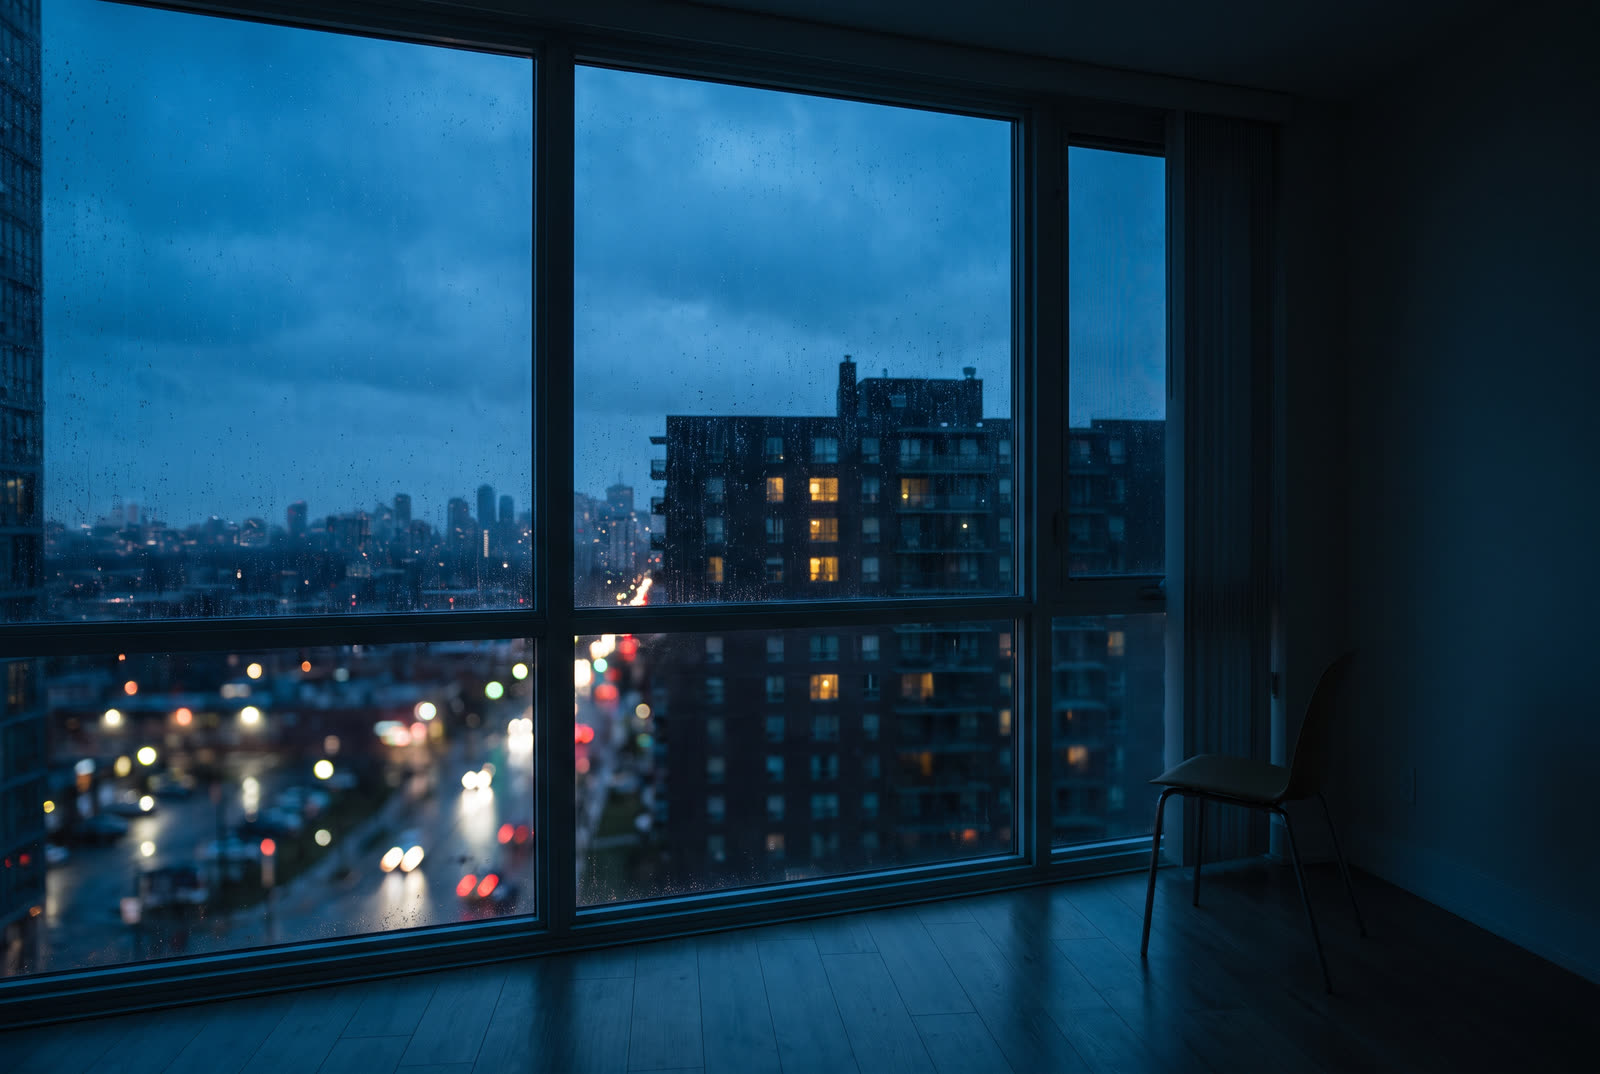
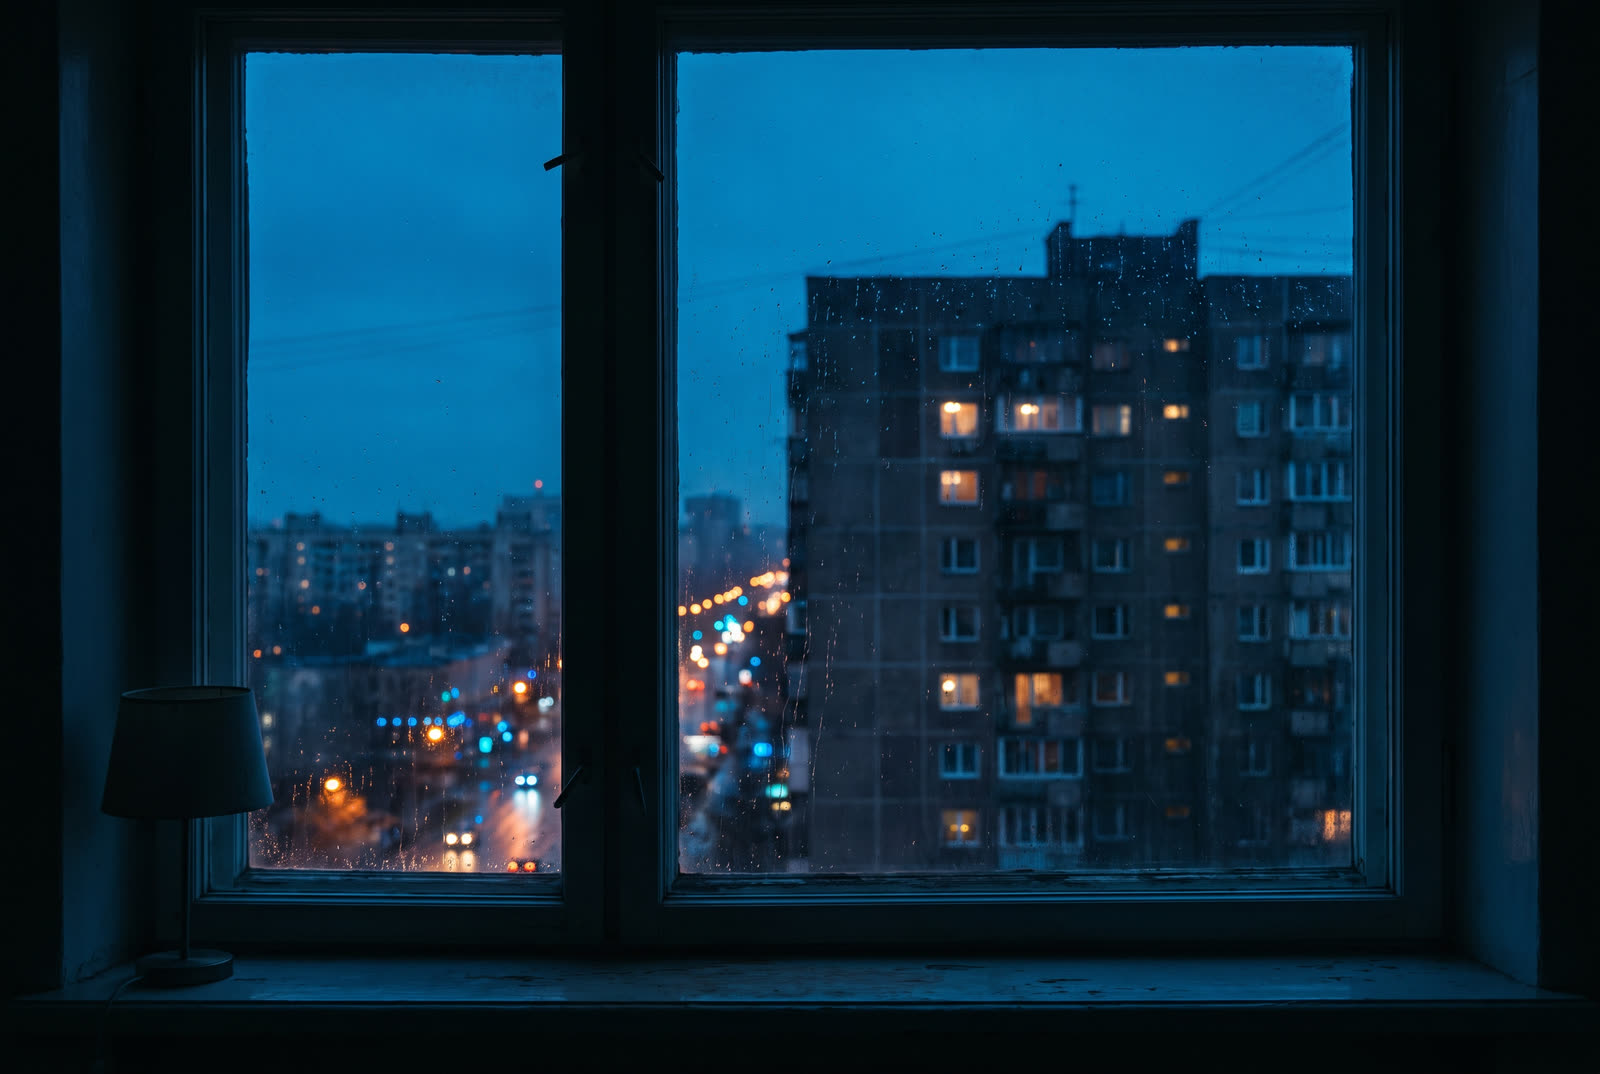
Спуск: кадры без лиц — композиции вместо портретов

diff --git a/spusk.html b/spusk.html
@@ -663,11 +663,9 @@ section[id]{scroll-margin-top:96px}
         <p>Она открыла переписку и читала не слова, а смысл, стоящий за ними...</p>
 
         <figure class="sf">
-          <img src="assets/img/psibo_pavel_smile.jpg" alt="· в кресле у окна. телефон экраном вверх" loading="lazy">
-          <figcaption>01 · спокойная и изящная</figcaption>
-        </figure>
-
-        <p>Вот Кукла перевела деньги и сразу спросила:</p>
+          <img src="assets/img/story/spusk_01_kreslo.jpg" alt="· в кресле у окна. телефон экраном вверх" loading="lazy">
+          <figcaption>01 · в кресле у окна. телефон экраном вверх</figcaption>
+        </figure><p>Вот Кукла перевела деньги и сразу спросила:</p>
         <p class="dlg">«Так достаточно? Я закрыла?»</p>
 
         <p>Хозяйка чуть улыбнулась увидев, что мне нужен не ответ «закрыла», а подтвержденье, что еще в долгу. Можно сколько угодно говорить «хватит» - он всё равно будет ждать следующего «пока нет». Это был кожный вектор в определенном состоянии в Кукле. С желанием Долга, который нельзя погасить.</p>
@@ -675,11 +673,9 @@ section[id]{scroll-margin-top:96px}
         <p>Чуть ниже Кукла писала длинно, почти умоляюще. Ей нужна реализация расставленья мыслей по полочкам и ящичкам, чем и занимается она, расписывая детали, расставляя по абзацам...</p>
 
         <figure class="sf">
-          <img src="assets/img/psibo_pavel_flowers.jpg" alt="· читала не слова, а смысл, стоящий за ними" loading="lazy">
+          <img src="assets/img/story/spusk_03_telefon.jpg" alt="· читала не слова, а смысл, стоящий за ними" loading="lazy">
           <figcaption>02 · читала не слова, а смысл, стоящий за ними</figcaption>
-        </figure>
-
-        <p>Ей в коже хотелось повелений, как на плацу от кожного командира, как пониманье о том, что можно, через закон. Протоколы, баллы, штрафы. Каждое нарушение - штраф. Каждый штраф - перевод. Каждый перевод - возбуждение.</p>
+        </figure><p>Ей в коже хотелось повелений, как на плацу от кожного командира, как пониманье о том, что можно, через закон. Протоколы, баллы, штрафы. Каждое нарушение - штраф. Каждый штраф - перевод. Каждый перевод - возбуждение.</p>
 
         <p>Дальше шли сообщения, полные страха:</p>
         <p class="dlg">«Вы ещё здесь?», «Вы не расскажете?»</p>
@@ -687,11 +683,9 @@ section[id]{scroll-margin-top:96px}
         <p>Зрительный вектор. Кукла боялась разоблачения. Значит, угрожать нужно было именно этим. «Я знаю, где ты живёшь, с кем спишь, кому звонишь. И могу рассказать». Страх сильнее Куклы и можно просто иногда напоминать, что информация есть и может быть использована против нее.</p>
 
         <figure class="sf">
-          <img src="assets/img/story/son_05_perevod.jpg" alt="· «я знаю, где ты живёшь, с кем спишь, кому звонишь»" loading="lazy">
-          <figcaption>03 · «я знаю, где ты живёшь, с кем спишь, кому звонишь»</figcaption>
-        </figure>
-
-        <p>И ещё одна фраза, почти незаметная, летала в голове вопросом:</p>
+          <img src="assets/img/story/spusk_04_kniga.jpg" alt="· счёт, долги, протокол. писала коротко, для себя" loading="lazy">
+          <figcaption>03 · счёт, долги, протокол. писала коротко, для себя</figcaption>
+        </figure><p>И ещё одна фраза, почти незаметная, летала в голове вопросом:</p>
         <p class="dlg">«Что мне сделать для Вас?»</p>
 
         <p>Ей нужно было работать. Не для себя - для Хозяйки. Задания. Много. Разных. И она выдумывала заданья. Те, что действительно принесут пользу и радость Хозяйке. И каждое - с привкусом дойки. Не просто «сделай», а «сделай, и потом переведёшь. И будешь возбуждаться от того, что перевела».</p>
@@ -705,22 +699,18 @@ section[id]{scroll-margin-top:96px}
         </div>
 
         <figure class="sf">
-          <img src="assets/img/story/son_01_hozyaika.jpg" alt="· счёт, долги, протокол. писала коротко, для себя" loading="lazy">
-          <figcaption>04 · счёт, долги, протокол. писала коротко, для себя</figcaption>
-        </figure>
-
-        <p>Она перечитала и кивнула. Кукла думала, что хочет «жёсткости». На самом деле ей нужно было одно: возбуждаться от денег, уходящих на счёт Хозяйки. Только от этого. Чтобы обычный секс с девушкой постепенно стал пресным. Чтобы тело перестало откликаться на прикосновения и начало откликаться на цифры перевода и на фразу «задание выполнено».</p>
+          <img src="assets/img/story/spusk_05_gorod.jpg" alt="· знаю адрес. знаю график. если перестанешь работать — я расскажу" loading="lazy">
+          <figcaption>04 · «знаю адрес. знаю график. если перестанешь работать — я расскажу»</figcaption>
+        </figure><p>Она перечитала и кивнула. Кукла думала, что хочет «жёсткости». На самом деле ей нужно было одно: возбуждаться от денег, уходящих на счёт Хозяйки. Только от этого. Чтобы обычный секс с девушкой постепенно стал пресным. Чтобы тело перестало откликаться на прикосновения и начало откликаться на цифры перевода и на фразу «задание выполнено».</p>
 
         <p>Хозяйка взяла телефон.</p>
 
         <p class="dlg">«Кукла. Завтра ты начнёшь с фразы: „Я кукла, которая работает на Хозяйку&quot;. Потом сделаешь задание. Потом переведёшь. И будешь учиться возбуждаться именно от перевода. Не от тела. Не от девушки рядом. От того, что деньги ушли ко мне. Поняла?»</p>
 
         <figure class="sf">
-          <img src="assets/img/story/spusk_05_gorod.jpg" alt="· «знаю адрес. знаю график»" loading="lazy">
-          <figcaption>05 · «знаю адрес. знаю график»</figcaption>
-        </figure>
-
-        <p>Ответ пришёл не сразу. Сначала долгое «печатает…», потом пауза, потом снова.</p>
+          <img src="assets/img/story/spusk_06_komnata.jpg" alt="· лежала рядом с девушкой, которая ничего не знала" loading="lazy">
+          <figcaption>05 · лежала рядом с девушкой, которая ничего не знала</figcaption>
+        </figure><p>Ответ пришёл не сразу. Сначала долгое «печатает…», потом пауза, потом снова.</p>
 
         <p class="dlg">«Поняла, Хозяйка».</p>
 
@@ -733,16 +723,12 @@ section[id]{scroll-margin-top:96px}
         <p>Где-то в другом конце города Кукла сейчас лежала рядом с девушкой, которая ничего не знала, и смотрела на погасший экран. Рука уже тянулась проверить, пришло ли уведомление. А тело - странно, предательски - начинало отзываться не на тепло рядом, а на память о последнем переводе.</p>
 
         <figure class="sf">
-          <img src="assets/img/psibo_sofa_blue.jpg" alt="· лежала рядом с девушкой, которая ничего не знала" loading="lazy">
-          <figcaption>06 · лежала рядом с девушкой, которая ничего не знала</figcaption>
-        </figure>
-
-        <figure class="sf">
-          <img src="assets/img/story/son_02_kukla.jpg" alt="· тело отзывалось на память о последнем переводе" loading="lazy">
-          <figcaption>07 · тело отзывалось на память о последнем переводе</figcaption>
-        </figure>
-
-        <p>Хозяйка закрыла глаза.</p>
+          <img src="assets/img/story/spusk_07_kukla.jpg" alt="· тело отзывалось на память о последнем переводе" loading="lazy">
+          <figcaption>06 · тело отзывалось на память о последнем переводе</figcaption>
+        </figure><figure class="sf">
+          <img src="assets/img/story/spusk_08_polka.jpg" alt="· тогда её можно поставить на полку" loading="lazy">
+          <figcaption>07 · тогда её можно поставить на полку</figcaption>
+        </figure><p>Хозяйка закрыла глаза.</p>
 
         <div class="smsg smsg--dno">
           <p>Дно - это не боль.<br>
@@ -753,11 +739,6 @@ section[id]{scroll-margin-top:96px}
         </div>
 
         <p>Тогда она становится по-настоящему твоей. И тогда её можно поставить на полку.</p>
-
-        <figure class="sf">
-          <img src="assets/img/story/son_06_polka.jpg" alt="· тогда её можно поставить на полку" loading="lazy">
-          <figcaption>08 · тогда её можно поставить на полку</figcaption>
-        </figure>
 
         <p class="story-end">Конец</p>
       </div>
